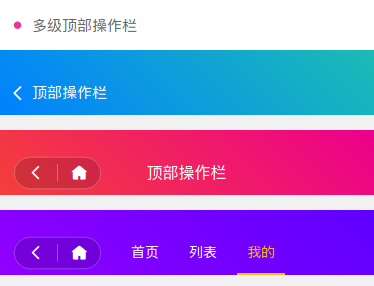
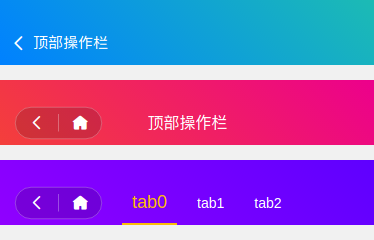
refactor:更新导航栏

diff --git a/docs/zh-cn/components/custom.md b/docs/zh-cn/components/custom.md
@@ -29,18 +29,10 @@
 
 ```html
 <template>
-  <div>
-    <custom name="顶部操作栏" bg-color="bg-gradual-pink fixed"></custom>
-    <div class="cu-bar bg-white">
-      <div class="action">
-        <text class="icon-title text-pink"></text>
-        <text>一级顶部操作栏</text>
-      </div>
-    </div>
-
-    <custom
+<div>
+  <custom
       name="居左首页"
-      bg-color="bg-gradual-pink"
+      bg-color="bg-gradual-blue"
       open-type="switchTab"
       url="/pages/basics/index"
     ></custom>
@@ -53,7 +45,7 @@
 
     <custom bg-color="bg-black margin-top" freebar>
       <div slot="freebar">
-        <div class="action">
+        <div class="action" @tap="close">
           <text class="icon-close"></text>关闭
         </div>
         <div class="content" :style="conTop">带按钮的首页</div>
@@ -71,14 +63,14 @@
 
     <custom
       name="图片背景首页"
-      bg-color="margin-top"
-      bg-img="https://image.weilanwl.com/color2.0/plugin/cjkz2329.jpg"
+      bg-color="margin-top text-black text-blod"
+      bg-img="https://static.veer.com/veer/static/resources/keyword/2018-05-30/a207217f05aa426f821547508320178b.jpg"
       noneBg
     ></custom>
 
     <custom
       bg-color="margin-top"
-      bg-img="https://image.weilanwl.com/color2.0/plugin/cjkz2329.jpg"
+      bg-img="https://goss1.veer.com/creative/vcg/veer/612/veer-148024919.jpg"
       noneBg
       freebar
     >
